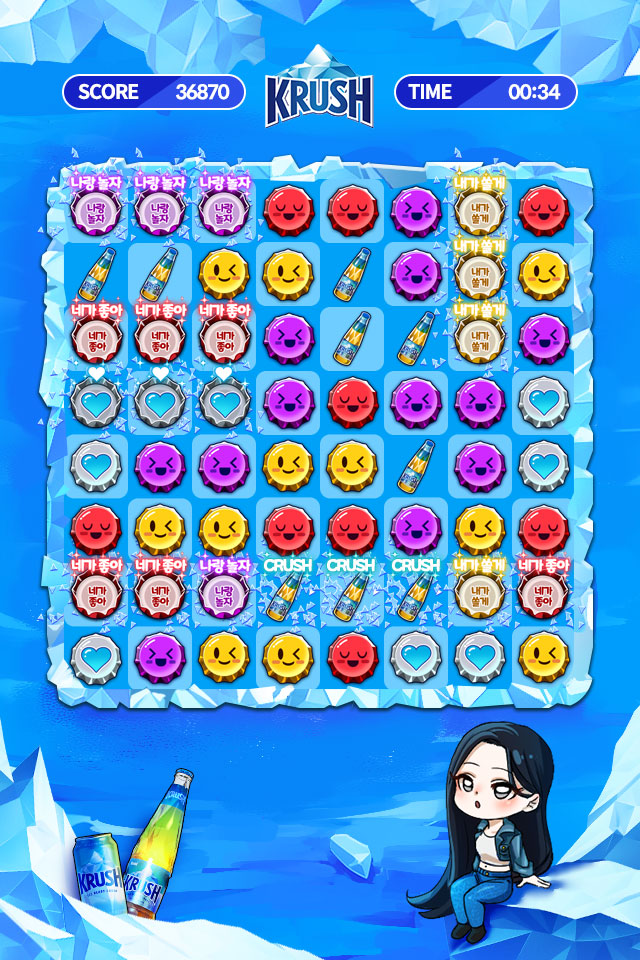
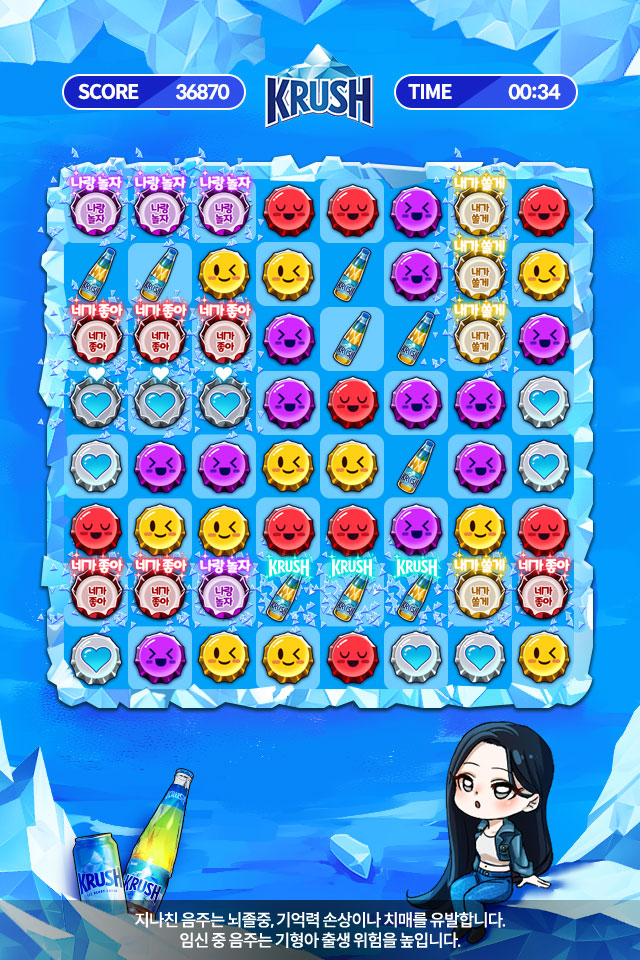
fix: 게임 화면 이미지 변경 및 js 수정

diff --git a/js/common.js b/js/common.js
@@ -1,8 +1,8 @@
 $(document).ready(function () {
   localStorageInit();
   const paramsCap = getParams()?.cap;
-  const visitCheck = localStorage.getItem("visit");
-  if (!(paramsCap || visitCheck)) $(".age_wrap").css("display", "flex");
+  // const visitCheck = localStorage.getItem("visit");
+  if (!paramsCap) $(".age_wrap").css("display", "flex");
 
   // Swiper Slide
   const swiper1 = new Swiper("#slider01", {
